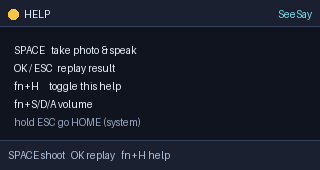
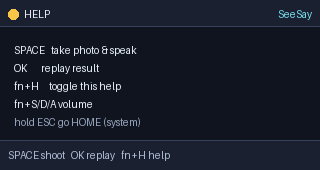
Fix 3 field issues: rotate-tolerant detect, help text, short-ESC consume

Changed region(s): [[0.0938, 0.3529, 0.375, 0.4412]]

diff --git a/runtime/seesay_pipeline.py b/runtime/seesay_pipeline.py
@@ -291,8 +291,8 @@ def run_ocr(image: str) -> dict:
     return run_script("seesay_readtext.py", image)
 
 
-def run_detect(image: str) -> dict:
-    """Detect objects, preferring the C++ ncnn NanoDet subprocess over Mirage.
+def _run_detect_once(image: str) -> dict:
+    """Single-orientation detection: C++ ncnn NanoDet, fallback to Python Mirage.
 
     Output shape matches seesay_describe.py ({"ok":..., "objects":[...]}), so
     build_sentence / speech / UI need no changes. If the C++ binary is missing
@@ -319,6 +319,48 @@ def run_detect(image: str) -> dict:
         except Exception as exc:  # noqa: BLE001
             print(f"[pipeline] C++ detect error, falling back: {exc}", file=sys.stderr)
     return run_script("seesay_describe.py", image)
+
+
+def run_detect(image: str) -> dict:
+    """Detect objects, tolerating a sideways-held camera (project book 8.9.14).
+
+    Blind users often hold the device sideways, so the frame can be rotated
+    90 degrees. NanoDet sees a rotated image and finds nothing, while the text
+    is still readable -> the user hears only text and thinks the object was
+    skipped. Try the upright frame first (no cost in the normal case); only if
+    it finds no objects, retry 90/180/270 rotations and keep the best result.
+    """
+    first = _run_detect_once(image)
+    if first.get("ok") and first.get("objects"):
+        return first  # normal upright shot: single pass, no added latency
+
+    def score(res: dict) -> float:
+        return sum(float(o.get("confidence", 0.0))
+                   for o in res.get("objects", []) if isinstance(o, dict))
+
+    best = first
+    best_score = score(first)
+    try:
+        from PIL import Image
+        data_dir = Path(image).parent
+        with Image.open(image) as im0:
+            upright = im0.convert("RGB")
+            for angle in (90, 180, 270):
+                rotated = data_dir / f"detect_rot_{angle}.jpg"
+                try:
+                    upright.rotate(angle, expand=True).save(
+                        str(rotated), "JPEG", quality=85)
+                    candidate = _run_detect_once(str(rotated))
+                    if candidate.get("ok") and score(candidate) > best_score:
+                        best, best_score = candidate, score(candidate)
+                finally:
+                    try:
+                        rotated.unlink()
+                    except OSError:
+                        pass
+    except Exception as exc:  # noqa: BLE001 - rotation is best-effort
+        print(f"[pipeline] rotation detect skipped: {exc}", file=sys.stderr)
+    return best
 
 
 def capture() -> tuple[bool, str]:

diff --git a/src/app/ocr_controller.cpp b/src/app/ocr_controller.cpp
@@ -54,6 +54,15 @@ bool OcrController::handle_key(uint32_t key, bool long_pressed) {
         return true;
     }
 
+    // A plain short ESC must be consumed (do nothing). If we let it fall
+    // through as "not consumed", linux_input dispatches it as a navigation
+    // key and the system exits the app immediately -- so a deliberate LONG
+    // ESC never gets the chance to fire the HOME action. Official key spec:
+    // short ESC = no side effect, long ESC = system HOME (project book 6.1).
+    if (key == LV_KEY_ESC) {
+        return true;
+    }
+
     // SPACE = take a photo and speak the result.
     if (key == ' ') {
         toast_->hide();

diff --git a/src/view/widgets/help_popup.cpp b/src/view/widgets/help_popup.cpp
@@ -23,7 +23,7 @@ struct HelpRow {
 
 constexpr std::array<HelpRow, 5> kAppleRows = {{
     {"SPACE", "Shoot & speak"},
-    {"OK / ESC", "Replay result"},
+    {"OK", "Replay result"},
     {"fn+H", "This help"},
     {"C", "Clear result"},
     {"HOLD ESC", "Go HOME (system)"},
@@ -31,7 +31,7 @@ constexpr std::array<HelpRow, 5> kAppleRows = {{
 
 constexpr std::array<HelpRow, 3> kButterRows = {{
     {"SPACE", "Shoot & speak"},
-    {"OK / ESC", "Replay result"},
+    {"OK", "Replay result"},
     {"HOLD ESC", "Go HOME (system)"},
 }};
 

diff --git a/tools/generate_assets.py b/tools/generate_assets.py
@@ -127,7 +127,7 @@ def draw_screens() -> None:
 
     img, d = base_screen("SeeSay", "HELP", AMBER)
     d.text((14, 44), "SPACE   take photo & speak", fill=DARK_TEXT)
-    d.text((14, 62), "OK / ESC  replay result", fill=DARK_TEXT)
+    d.text((14, 62), "OK       replay result", fill=DARK_TEXT)
     d.text((14, 80), "fn+H     toggle this help", fill=DARK_TEXT)
     d.text((14, 98), "fn+S/D/A volume", fill=DARK_TEXT)
     d.text((14, 116), "hold ESC go HOME (system)", fill=(150, 165, 190))

diff --git a/README.md b/README.md
@@ -20,7 +20,7 @@ Everything runs locally. The app never connects to the network.
 | --- | --- |
 | **SPACE** | Take a photo, describe it, and speak the result |
 | **OK / Enter** | Replay the last announcement |
-| **ESC** (short) | Replay / go back |
+| **ESC** (short) | No action (reserved) |
 | **ESC** (long) | Return to HOME (handled by the system) |
 | **fn + H** | Show / hide key help |
 | **fn + S / D / A** | Volume down / up / mute |
